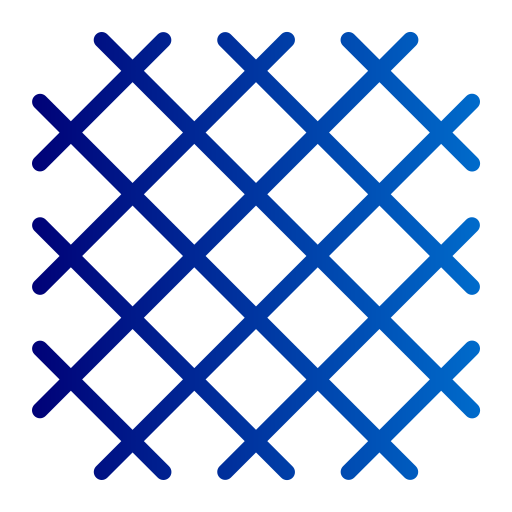
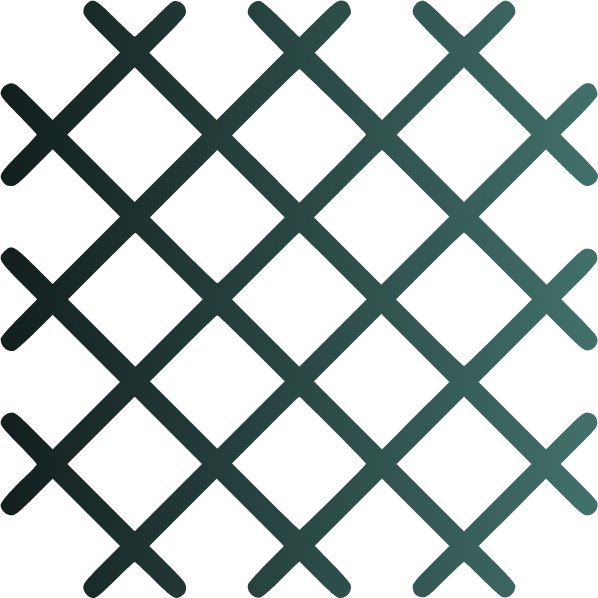
Mudança de cores

diff --git a/src/pages/SobreMim.css b/src/pages/SobreMim.css
@@ -22,7 +22,7 @@
   text-align: start;
   align-items: center;
   border-radius: 24px;
-  background: #887177;
+  background: #1e3330;
   color: white;
 }
 
@@ -49,7 +49,7 @@
   text-align: start;
   align-items: center;
   border-radius: 24px;
-  background: #2f4858;
+  background: #4b8078;
   color: white;
 }
 
@@ -120,7 +120,7 @@
   border-radius: 24px;
   height: 30px;
   border: 1px solid white;
-  background: linear-gradient(90deg, #2f4858 2.62%, #887177 93.38%);
+  background: linear-gradient(90deg, #1e3330 2.62%, #4b8078 93.38%);
   color: white;
   font-weight: 300;
   text-align: center;
@@ -224,7 +224,7 @@
   .qualificacoes {
     position: relative;
     max-height: none;
-    box-shadow: 5px 5px 8px #2f2f2f;
+    box-shadow: 5px 5px 8px #000000;
     border-radius: 0;
     /*overflow: hidden;  Garante que o conteúdo fique dentro das bordas arredondadas */
     /* z-index: 1; */

diff --git a/src/pages/Header.css b/src/pages/Header.css
@@ -27,16 +27,16 @@
 
 @keyframes arco-iris-4122ff6f {
   0% {
-    border-bottom-color: #006bcb;
+    border-bottom-color: #4b8078;
   }
   25% {
-    border-bottom-color: #000177;
+    border-bottom-color: #1e3330;
   }
   50% {
-    border-bottom-color: #006bcb;
+    border-bottom-color: #4b8078;
   }
   75% {
-    border-bottom-color: #000177;
+    border-bottom-color: #1e3330;
   }
   100% {
     border-bottom-color: #fff;

diff --git a/src/pages/Footer.jsx b/src/pages/Footer.jsx
@@ -45,7 +45,7 @@ function Footer() {
           <ul className="social">
             <a href="https://www.instagram.com/danton.ferrari/" target="_blank">
               <li className="tooltip">
-                <i className="fa-brands fa-instagramgit add"></i>
+                <i className="fa-brands fa-instagram"></i>
                 <span className="tooltiptext">Instagram</span>
               </li>
             </a>

diff --git a/src/pages/Footer.css b/src/pages/Footer.css
@@ -7,14 +7,14 @@ footer {
   margin: 0;
 }
 
-.tooltip {
+.tooltiptext {
   display: none;
 }
 
 .footer {
   position: relative;
   width: 100%;
-  background: linear-gradient(#887177 20%, #2f4858 80%);
+  background: linear-gradient(#4b8078 20%, #1e3330 80%);
   min-height: 100px;
   padding-top: 30px;
   padding-bottom: 30px;

diff --git a/src/pages/Nav.css b/src/pages/Nav.css
@@ -10,7 +10,7 @@ nav {
   gap: 20px;
   padding: 0 20px;
   height: 50px;
-  background: linear-gradient(90deg, #2f4858 2.62%, #887177 93.38%);
+  background: linear-gradient(90deg, #1e3330 2.62%, #4b8078 93.38%);
   transition: 0.3s;
   z-index: 1;
 }

diff --git a/src/pages/Services.css b/src/pages/Services.css
@@ -10,7 +10,6 @@
   flex-direction: column;
   align-items: center;
   justify-content: center;
-  background: black;
   text-align: center;
   height: 500px;
   padding: 50px;

diff --git a/src/index.css b/src/index.css
@@ -24,7 +24,7 @@ html {
 }
 
 body {
-  background-color: black;
+  background-color: #130a00;
   padding-top: 50px;
   margin: 0;
 }
